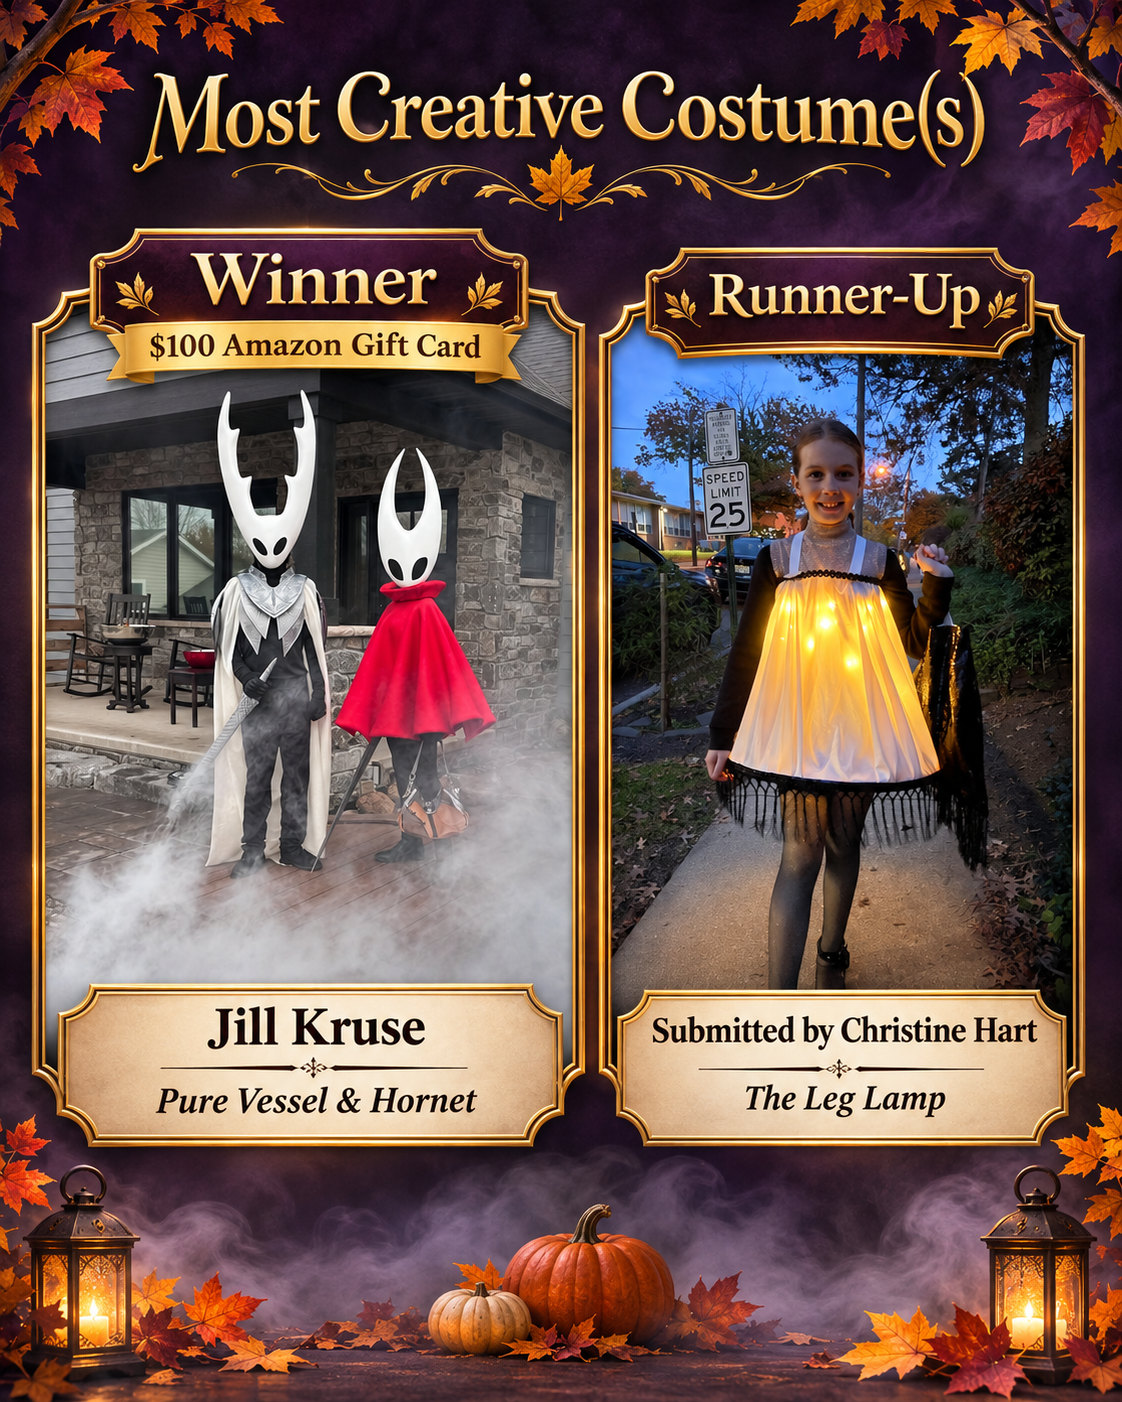
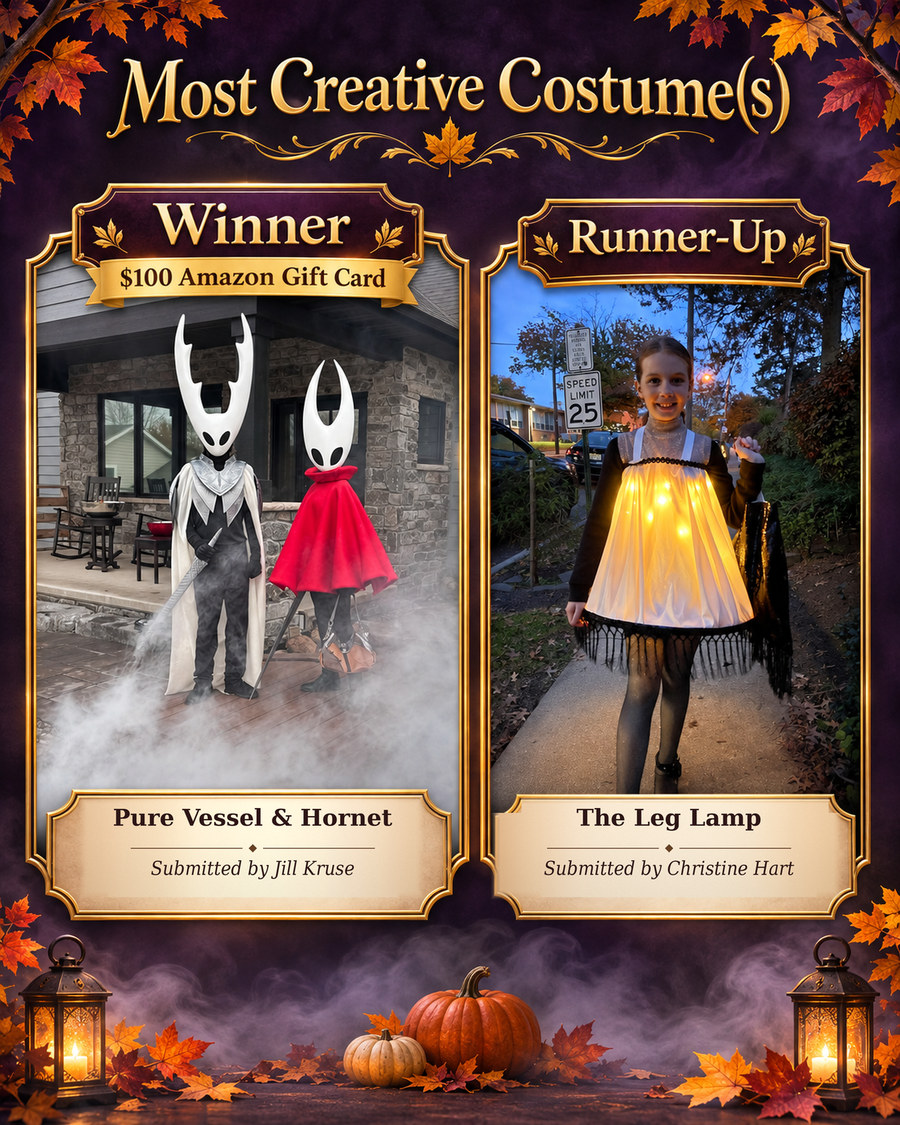
Correct Most Creative winner and runner-up costume nameplate order

Changed region(s): [[0.5289, 0.6844, 0.9333, 0.8089], [0.0933, 0.6844, 0.4356, 0.8089], [0.9022, 0.7778, 0.9333, 0.8089]]

diff --git a/halloween-2026/cision-winners-2026-draft.html b/halloween-2026/cision-winners-2026-draft.html
@@ -15,7 +15,7 @@
 <tr><td align="left" valign="top" style="padding:9px 10px 9px 13px;font-family:Arial,Helvetica,sans-serif;font-size:15px;line-height:1.35;color:#32263a;border-bottom:1px solid #eadccc;">Best Pet Costume</td><td align="right" valign="top" style="padding:9px 13px 9px 6px;white-space:nowrap;font-family:Arial,Helvetica,sans-serif;font-size:15px;line-height:1.35;font-weight:bold;color:#9d421b;border-bottom:1px solid #eadccc;">$50</td></tr>
 <tr><td align="left" valign="top" style="padding:9px 10px 9px 13px;font-family:Arial,Helvetica,sans-serif;font-size:15px;line-height:1.35;color:#32263a;border-bottom:1px solid #eadccc;">Best Child(ren)'s Costume(s)</td><td align="right" valign="top" style="padding:9px 13px 9px 6px;white-space:nowrap;font-family:Arial,Helvetica,sans-serif;font-size:15px;line-height:1.35;font-weight:bold;color:#9d421b;border-bottom:1px solid #eadccc;">$50</td></tr></table><p style="margin:12px 0 0;text-align:center;color:#615365;font-family:Arial,Helvetica,sans-serif;font-size:12px;line-height:1.5;">Prizes are awarded to category winners only. Runners-up and special recognitions receive no gift card.</p></td></tr>
 <tr><td style="padding:29px 27px 14px;background-color:#ffffff;" align="center"><table role="presentation" cellpadding="0" cellspacing="0" border="0" width="100%"><tr><td style="padding:14px 15px;border-top:3px solid #c88b36;border-bottom:3px solid #c88b36;background-color:#fff0d4;color:#9d421b;text-align:center;font-family:Georgia,'Times New Roman',serif;font-size:25px;font-weight:bold;line-height:1.3;">MOST CREATIVE COSTUME(S)</td></tr></table></td></tr>
-<tr><td align="center" style="padding:3px 25px 20px;background-color:#ffffff;line-height:0;font-size:0;"><img src="https://fhunjunkie.github.io/OPAC-Email-Assets/halloween-2026/assets/winners-2026/most-creative.jpg" alt="Most Creative Costume(s): winner Jill Kruse and runner-up submitted by Christine Hart" width="640" style="display:block;border:0;outline:none;text-decoration:none;width:100%;max-width:640px;height:auto;" /></td></tr>
+<tr><td align="center" style="padding:3px 25px 20px;background-color:#ffffff;line-height:0;font-size:0;"><img src="https://fhunjunkie.github.io/OPAC-Email-Assets/halloween-2026/assets/winners-2026/most-creative.jpg?v=nameplate-title-first-20261113" alt="Most Creative Costume(s): winner Jill Kruse and runner-up submitted by Christine Hart" width="640" style="display:block;border:0;outline:none;text-decoration:none;width:100%;max-width:640px;height:auto;" /></td></tr>
 <tr><td align="left" style="padding:0 33px 7px;background-color:#ffffff;color:#292329;font-family:Arial,Helvetica,sans-serif;font-size:16px;line-height:1.6;"><p style="margin:0 0 15px 0;"><strong>Winner: Jill Kruse | $100 Amazon Gift Card</strong></p><p style="margin:0 0 15px 0;">Some people decorate their porches with pumpkins. Jill Kruse's entry apparently opened a portal to another dimension!</p><p style="margin:0 0 15px 0;">Bringing <em>Pure Vessel and Hornet</em> from <em>Hollow Knight</em> to life, this spectacular submission featured hauntingly detailed costumes, dramatic masks, and enough fog to make a haunted house jealous.</p><p style="margin:0 0 15px 0;">Our zombie judges gave this creation two thumbs up. Of course, it took us nearly 20 minutes to locate both thumbs, but that's beside the point.</p><p style="margin:0 0 15px 0;"><strong>Runner-Up: Entry Submitted by Christine Hart</strong></p><p style="margin:0 0 15px 0;">Talk about a <strong>MAJOR AWARD!</strong></p><p style="margin:0 0 15px 0;">Straight from <em>A Christmas Story</em>, this brilliant recreation of the legendary Leg Lamp quite literally lit up the competition!</p><p style="margin:0 0 15px 0;">It's glowing. It's glamorous. It's FRAGILE! (Must be Italian.)</p><p style="margin:0 0 15px 0;">Somewhere, Ralphie's father is shedding a tear of pride. Meanwhile, our judges are still debating whether the costume should receive an award or be plugged into the nearest electrical outlet.</p></td></tr>
 <tr><td style="padding:29px 27px 14px;background-color:#ffffff;" align="center"><table role="presentation" cellpadding="0" cellspacing="0" border="0" width="100%"><tr><td style="padding:14px 15px;border-top:3px solid #c88b36;border-bottom:3px solid #c88b36;background-color:#fff0d4;color:#9d421b;text-align:center;font-family:Georgia,'Times New Roman',serif;font-size:25px;font-weight:bold;line-height:1.3;">BEST GROUP / PRACTICE COSTUMES</td></tr></table></td></tr>
 <tr><td align="center" style="padding:3px 25px 20px;background-color:#ffffff;line-height:0;font-size:0;"><img src="https://fhunjunkie.github.io/OPAC-Email-Assets/halloween-2026/assets/winners-2026/best-group-practice.jpg?v=valerie-mcauley-20261113" alt="Best Group / Practice Costumes: winner submitted by Haven Jacob and runner-up submitted by Valerie McAuley" width="640" style="display:block;border:0;outline:none;text-decoration:none;width:100%;max-width:640px;height:auto;" /></td></tr>
